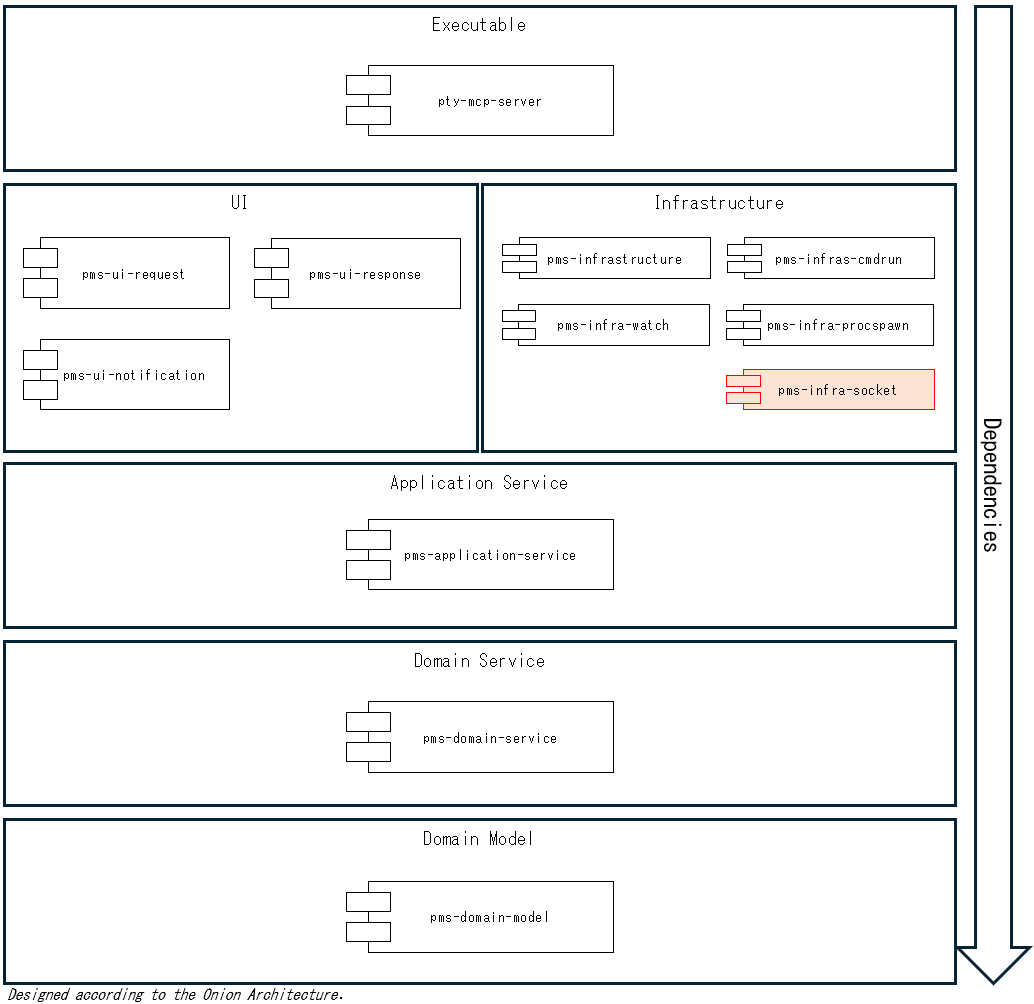
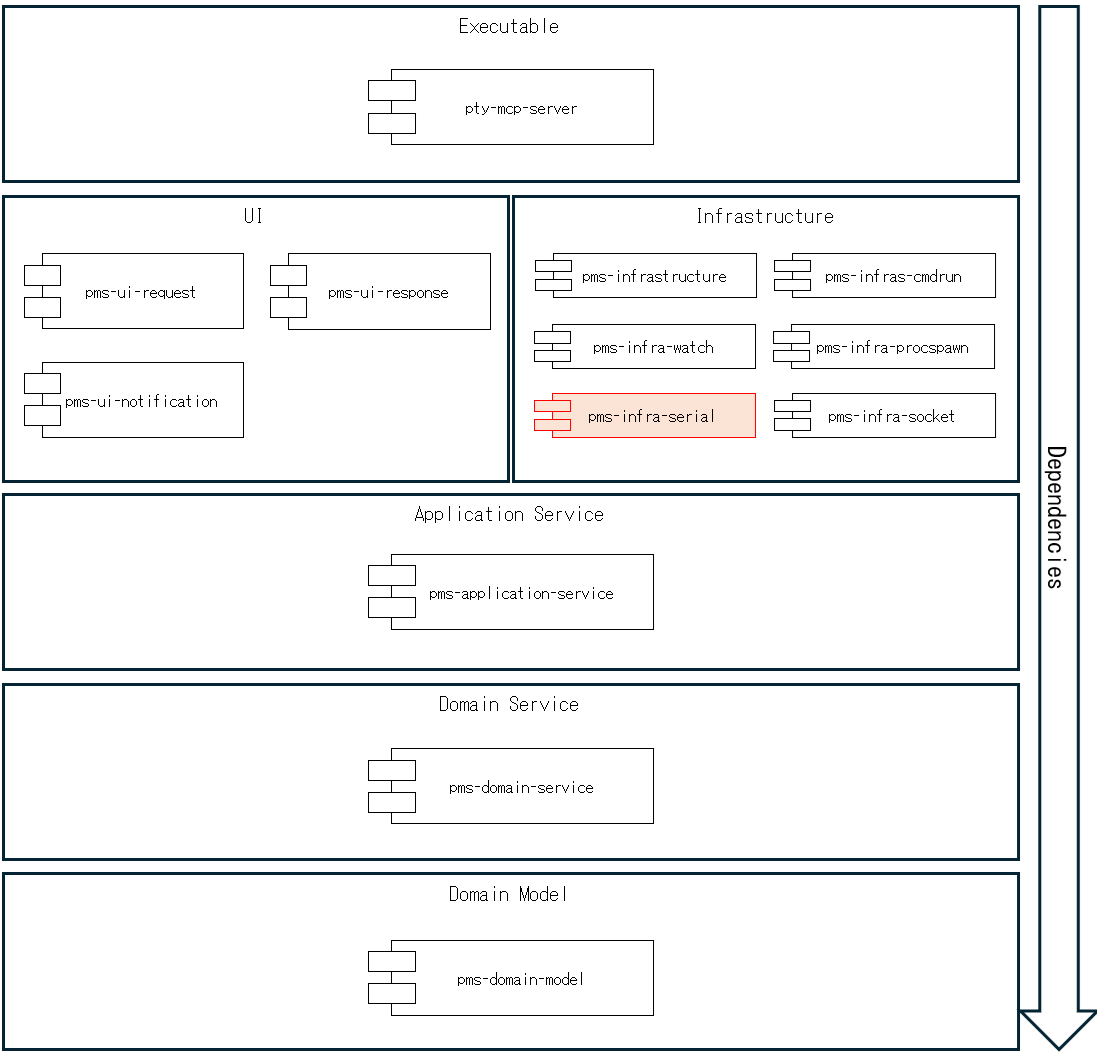
added serial tool.

diff --git a/README.md b/README.md
@@ -1,6 +1,7 @@
 # pms-infra-serial
 
-`pms-infra-serial` is a library within the [`pty-mcp-server`](https://github.com/phoityne/pty-mcp-server) project.  
+pms-infra-serial is a Haskell module responsible for handling serial communication on top of [`pty-mcp-server`](https://github.com/phoityne/pty-mcp-server).
+It provides an abstraction layer for input/output control over serial connections to network devices and embedded systems, serving as a foundation for AI-driven interactive automation.
 
 
 ---
